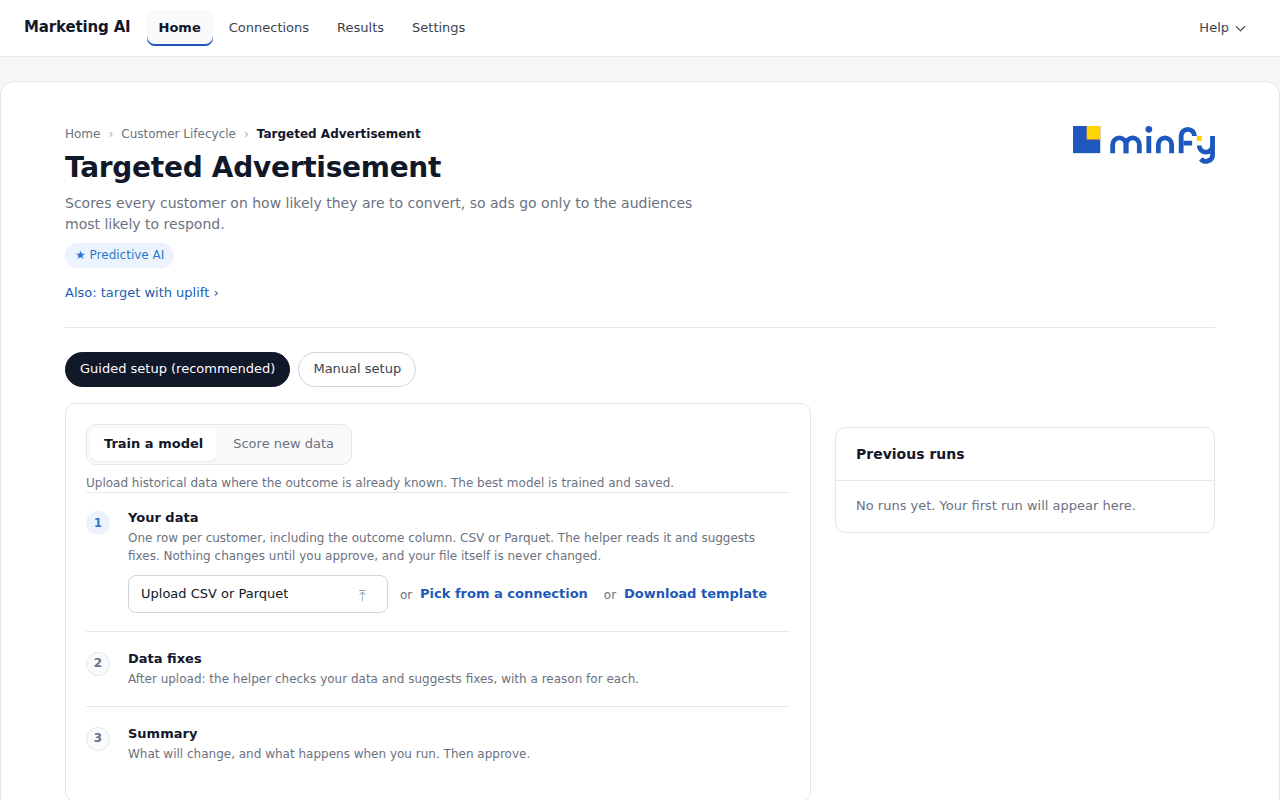
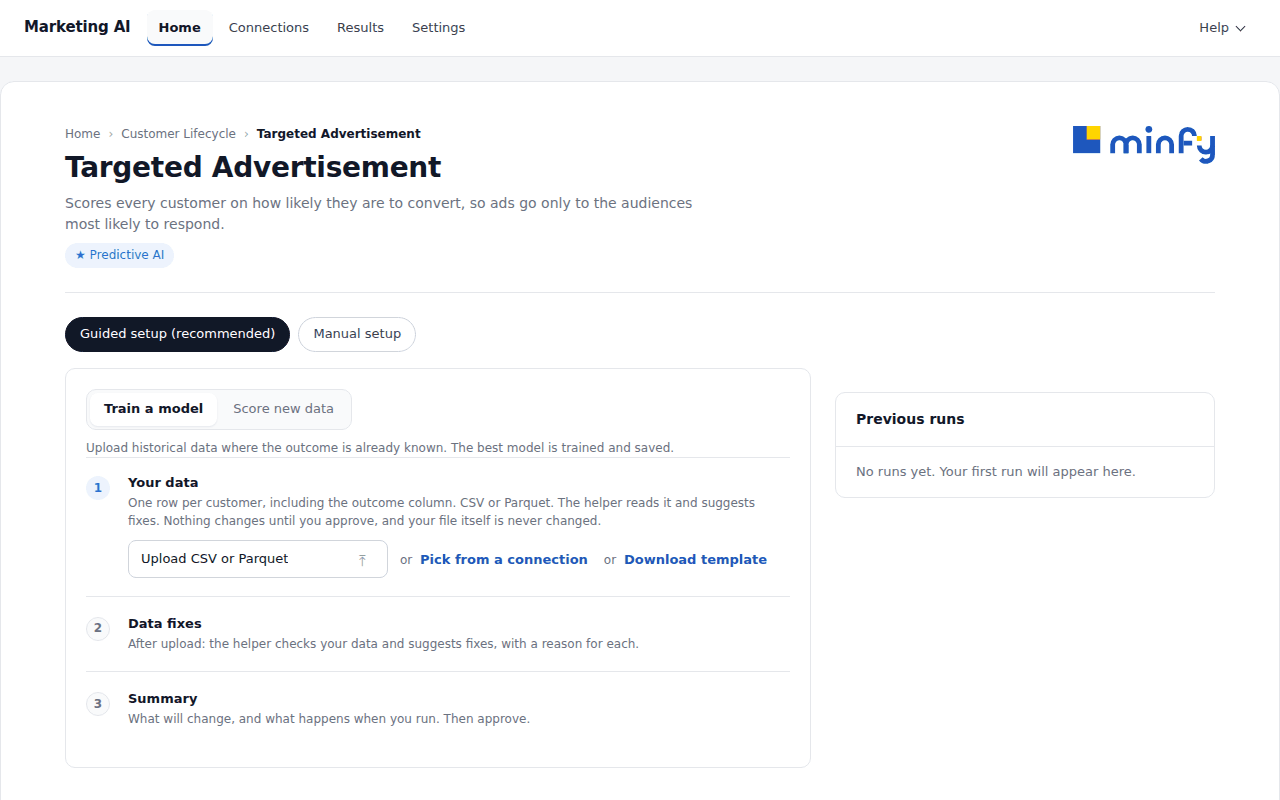
Use-case page rough edges (UI_AUDIT §8.4 items 5-8): no uplift link, no stray step 4
- 8: remove "Also: target with uplift ›" from every use case. ui/modules/uplift/index.js no longer
  registers the `uplift-related` run action; the workbench stays at #/uplift and under
  Settings → Advanced (Plan H: uplift is step 4, "Measure the campaign"). The prototype drops
  upRelated() to match; the wiring, prototype and measure tests now assert the link is absent.
  README, QUICKSTART, UPLIFT.md and UI_AUDIT no longer point at it.
- 5: the Measure block reads "Measure" ("Go to the step") and the panel "Measure the campaign":
  no bare "4" after Guided setup's own 1-3 and the unnumbered Data / Model / Output blocks.
- 6: the Measure block's state sits under its label; the DATA block's file name is one line with
  an ellipsis and the full name in its title (ui/usecase.js `.val.fname`).
- 7: the Measure panel's heading drops .card h3's band padding, so heading and body share the
  card's 24px left edge.
- measure.test.mjs checks 5-8, with computed styles against index.html's own rules.
- Re-captured start_here 05, 08 and 09.

Claude-Session: https://claude.ai/code/session_01WWdteqPywdHb2d3o19Pxp2

Changed region(s): [[0.0312, 0.3438, 0.5938, 0.9688], [0.6562, 0.5625, 0.875, 0.6562], [0.6562, 0.5, 0.75, 0.5312]]

diff --git a/ui/modules/uplift/index.js b/ui/modules/uplift/index.js
@@ -1,14 +1,13 @@
 // Phase 3b's entry point: the uplift screens (plan B §8), registered with `ui/modules/router.js`.
 //
 // HOW A USER REACHES THE UPLIFT SCREENS
-//   * From the top bar: Models › "Uplift models" (`ui/chrome.js`) opens `#/uplift`.
-//   * From a use case's Setup (`#/uc/<id>`): the quiet related link "Also: target with uplift ›" in
-//     its header, which this module offers through the router's run-action seam as the action for
-//     "no run" (`runActionsHtml(uc, null)`), and only for a use case that can have one (not an
-//     AI-written-text use case; planned, notice and error screens never draw a use case).
-//   * From a finished scoring run (`#/uc/<id>/run/<run>`): the "Campaign results" flow block, the
-//     same seam's action for a scoring run (`runActionsHtml(uc, run)`), because any scoring run with a
-//     control group can be measured - not only uplift ones.
+//   * From Settings → Advanced: "Uplift workbench" (`ui/modules/simple/pages.js`) opens `#/uplift`.
+//   * Not from a use case's header: Plan H makes uplift step 4 of a use case, "Measure the campaign"
+//     (`ui/modules/measure/`, whose "Learn who to contact next time" trains an uplift model and links
+//     to its contact list), so a use case offers no link to this workbench (UI_AUDIT §8.4 item 8).
+//   * From a finished scoring run (`#/uc/<id>/run/<run>`) of a use case object without its config:
+//     the "Campaign results" flow block, the router's run-action seam (`runActionsHtml(uc, run)`),
+//     because any scoring run with a control group can be measured - not only uplift ones.
 //   * From Campaigns (`#/monitoring/runs`) and the value view (`#/pilot/value/<run>`), which link here.
 //   * Directly, by URL:
 //       #/uplift                          every use case, one row each, with its uplift status
@@ -49,7 +48,6 @@ import {
   routes,
   upliftIndexHtml,
   upliftScreenHtml,
-  upliftUnavailable,
 } from "./views.js";
 
 injectUpliftStyles();
@@ -249,17 +247,7 @@ async function render(app, parts) {
 
 registerModule({ name: "uplift", routes: ROUTES, render });
 
-// --- what other screens offer: the related link and the Campaign results block -----------------
-
-/**
- * On a use case's own header (no run): "Also: target with uplift ›", as `headActions`' quiet related
- * link. Never for a use case uplift cannot serve (AI-written text, planned).
- */
-registerRunAction({
-  name: "uplift-related",
-  applies: (uc, run) => !run && !!uc && !!uc.id && !upliftUnavailable(uc),
-  html: (uc) => `<a class="related" href="${esc(routes.setup(uc.id))}">Also: target with uplift ›</a>`,
-});
+// --- what other screens offer: the Campaign results block ----------------------------------------
 
 /**
  * On a finished scoring run's Results: the fourth flow block, "Campaign results". It never says

diff --git a/ui/usecase.js b/ui/usecase.js
@@ -1054,9 +1054,15 @@ function flowBlocks(uc, s, run) {
       state = '<span class="bstate waiting">Not completed</span>';
       extra = " pending";
     }
+    // A file name is one long word: it is cut with an ellipsis on one line, whole in its tooltip,
+    // instead of breaking mid-word ("synthetic_score.cs / v", UI_AUDIT §8.4 item 6).
+    const val =
+      slug === "data"
+        ? `<div class="val fname" title="${esc(value)}">${esc(value)}</div>`
+        : `<div class="val">${esc(value)}</div>`;
     return `<a class="block${extra}" href="#/uc/${esc(uc.id)}/${slug}/${esc(run.run_id)}"><div><div class="lab"><span>${esc(
       label,
-    )}</span>${state}</div><div class="val">${esc(value)}</div>${
+    )}</span>${state}</div>${val}${
       meta ? `<div class="meta">${esc(meta)}</div>` : ""
     }</div><div class="go"><span>View details</span><span aria-hidden="true">›</span></div></a>`;
   });
@@ -1177,7 +1183,7 @@ function resultsHtml(uc, s) {
     ["Error code", run.error && run.error.code],
   ]);
   const flow = flowBlocks(uc, s, run);
-  // A step that needs a full-width section under the flow (Plan H M83: "4 Measure the campaign").
+  // A step that needs a full-width section under the flow (Plan H M83: step 4, "Measure the campaign").
   const panels = run.mode === "score" && run.state === "done" ? runPanelsHtml(uc, run) : "";
   return `<div class="results"><section class="summary rsum"><div class="vline">${told.head}</div>${told.lines.join(
     "",
@@ -1195,7 +1201,8 @@ export function useCaseHtml(uc, s) {
   const body =
     s.view === "running" ? runningHtml(uc, s) : s.view === "results" ? resultsHtml(uc, s) : setupHtml(uc, s);
   // A related link the phase modules offer for the use case itself (`registerRunAction`, asked with
-  // no run): uplift's "target with uplift", for one. Drawn quietly, after the description.
+  // no run), drawn quietly after the description. None offers one today: Plan H made uplift step 4
+  // ("Measure the campaign") and put its workbench under Settings → Advanced (UI_AUDIT §8.4 item 8).
   const related = runActionsHtml(uc, null);
   return `<main class="screen t-${esc(uc.marker)}">
     ${pageHead(
@@ -1275,6 +1282,7 @@ details.more-runs>summary{padding:12px 20px;border-top:1px solid var(--line);fon
 .rsum .vsub.muted{font-size:13px;color:var(--muted)}
 .rsum .btn-row{margin-top:8px}
 .flow.four{grid-template-columns:1fr 40px 1fr 40px 1fr 40px 1fr}
+.block .val.fname{white-space:nowrap;overflow:hidden;text-overflow:ellipsis}
 .block.next-step{background:var(--soft)}
 .flow-actions{margin-top:16px}
 .block .next-actions{flex-wrap:wrap;gap:8px 16px;justify-content:flex-start}

diff --git a/marketing-ai-prototype.html b/marketing-ai-prototype.html
@@ -2455,10 +2455,9 @@ function resultsHtml(u){const s=st(u),r=s.current,cfg=SETUP[u.id],v=runVerdict(u
     ${cfg.gen?assistantResults(u):""}
     <div class="runs-below">${runsCard(u)}</div></div>`;
 }
-/* DEC-608's entry point, since v1 a quiet related link in the use case's own header actions (the audit's
-   "Also: target with uplift ›"), never an injected pill. Only a use case with uplift sample content has
-   one (upliftOffered: never on a generative, notice, planned or error screen). */
-const upRelated=u=>upliftOffered(baseUC(u))?{label:"Also: target with uplift",href:pageHref(upView(baseUC(u))),attrs:`title="Uplift ${esc(UPLIFT_EXPLANATION)}"`}:null;
+/* DEC-608's entry point is no longer on the use case: Plan H made uplift step 4 of a use case ("Measure the
+   campaign") and put the workbench under Settings → Advanced, so ui/modules/uplift offers no "Also: target
+   with uplift" link in a use case's header (docs/UI_AUDIT.md §8.4 item 8). The uplift screens stay at #/uplift. */
 const upChip=()=>`<span class="chip type">Uplift</span>`;
 /* The breadcrumb above a use-case screen: Home › journey › use case (› Uplift) › the page. */
 function ucCrumbs(u,page){const b=baseUC(u),items=[JOURNEY];
@@ -2474,7 +2473,7 @@ function detail(u){const s=st(u);
     ${body}
   </main>`;
   return `<main class="screen t-${u.k}">
-    ${pageHead(`${ucCrumbs(u)}<h1 class="h1">${esc(u.name)}</h1><p class="desc">${esc(u.desc)}</p><div class="chips">${typeChip(u.k)}</div>${headActions({related:upRelated(u)})}`)}
+    ${pageHead(`${ucCrumbs(u)}<h1 class="h1">${esc(u.name)}</h1><p class="desc">${esc(u.desc)}</p><div class="chips">${typeChip(u.k)}</div>`)}
     ${body}
   </main>`;
 }
@@ -2720,7 +2719,7 @@ function mock(u, kind){
   }
   const next = nextKind&&kind!=="campaign" ? {label:`Next: ${NAMES[nextKind]} ›`,href:pageHref(u,nextKind)} : null;
   return `<main class="screen t-${u.k}"${u.up?' data-module="uplift"':""}>
-    ${pageHead(`${ucCrumbs(u,K)}<h1 class="h1">${esc(title)}</h1><div class="chips">${u.up?upChip():typeChip(u.k)}</div>${headActions({secondary:next?[next]:[],related:u.up?null:upRelated(u)})}`)}
+    ${pageHead(`${ucCrumbs(u,K)}<h1 class="h1">${esc(title)}</h1><div class="chips">${u.up?upChip():typeChip(u.k)}</div>${headActions({secondary:next?[next]:[]})}`)}
     <div class="tabs-bar"><nav class="tabs" aria-label="Pipeline">${tabs}</nav><span class="note">Illustrative sample, AWS reference stack</span></div>
     <div class="stack">${body}
     ${run&&kind!=="campaign"?techDetails([["Run id",run.id],["Dataset file",run.file],["Recorded",run.at]],"Details: this run"):""}</div>

diff --git a/ui/modules/measure/index.js b/ui/modules/measure/index.js
@@ -1,8 +1,10 @@
 // Step 4 of a use case, "Measure the campaign" (Plan H M83), on a finished scoring run's Results.
 //
 // WHAT THE PERSON SEES
-//   * In the Results flow, a fourth block "4 Measure" (the router's run-action seam) that jumps to
-//     the step below the flow.
+//   * In the Results flow, a fourth block "Measure" (the router's run-action seam) that jumps to
+//     the step below the flow; its state ("After the campaign", "Measured") sits under the label.
+//     Neither the block nor the panel carries a number: the page's other steps (Guided setup's 1-3,
+//     the unnumbered Data / Model / Output blocks) would not add up to it (UI_AUDIT §8.4 item 5).
 //   * Below the flow, the step itself (the router's run-panel seam): one sentence, one upload button;
 //     after the upload, one big plain result ("The campaign added about 180 conversions", "No clear
 //     effect yet", "Outcome window not over yet"), the contacted and held-back response rates, the
@@ -127,9 +129,9 @@ function blockHtml(uc, run) {
     : '<span class="bstate waiting">After the campaign</span>';
   return `<a class="block" href="${esc(routes.run(uc, run))}" data-measure-jump="${esc(
     run.run_id,
-  )}" data-action="measure"><div><div class="lab"><span>4 Measure</span>${state}</div><div class="val">Did contacting them change anything?</div><div class="meta">${
+  )}" data-action="measure"><div><div class="lab measure-lab"><span>Measure</span>${state}</div><div class="val">Did contacting them change anything?</div><div class="meta">${
     measured ? "See the result below" : "Upload who responded, below"
-  }</div></div><div class="go"><span>Go to step 4</span><span aria-hidden="true">↓</span></div></a>`;
+  }</div></div><div class="go"><span>Go to the step</span><span aria-hidden="true">↓</span></div></a>`;
 }
 
 function uploadButton(st, label, kind) {
@@ -259,7 +261,7 @@ function panelHtml(st) {
   if (!st.view && st.loading) body = `<p class="muted" role="status">Loading…</p>`;
   else if (!st.view) body = errorBox(st.error, { title: "This step could not be loaded." });
   else body = st.view.report ? resultHtml(st) : askHtml(st);
-  return `${open}><h3 id="measure-h">4 · Measure the campaign</h3>${body}</section>`;
+  return `${open}><h3 id="measure-h">Measure the campaign</h3>${body}</section>`;
 }
 
 // --- events (delegated once) -----------------------------------------------------------------------

diff --git a/ui/modules/measure/styles.js b/ui/modules/measure/styles.js
@@ -4,7 +4,11 @@
 
 const CSS = `
 .card.measure{margin-top:24px;padding:24px}
-.card.measure h3{margin:0 0 8px}
+/* One left edge for the heading and the body: the card pads both, so the heading drops .card h3's own
+   band padding (16px 20px, for cards with none) and keeps only its rule underneath (UI_AUDIT §8.4 item 7). */
+.card.measure h3{margin:0 0 12px;padding:0 0 12px}
+/* The flow block's state goes under its label, not beside it, so neither wraps at 1280px (item 6). */
+.block .lab.measure-lab{flex-direction:column;align-items:flex-start;justify-content:flex-start;gap:4px}
 .measure-lead{margin:0;font-size:15px;line-height:1.5;color:var(--ink);max-width:760px}
 .measure-hint{margin:4px 0 0;font-size:13px}
 .measure .btn-row{margin-top:16px}

diff --git a/ui/modules/router.js b/ui/modules/router.js
@@ -204,7 +204,7 @@ export function setupModes(uc) {
 }
 
 // Plan H M83: a *run panel* - a full-width section under a run's Results flow, for a step that needs
-// more room than a flow block ("4 Measure the campaign": an upload and its result). `ui/usecase.js`
+// more room than a flow block ("Measure the campaign": an upload and its result). `ui/usecase.js`
 // draws `runPanelsHtml(uc, run)` below the flow blocks; the module owns the panel's markup, its
 // events (delegated, so a repaint of the screen needs no re-binding) and its own in-place redraws.
 const runPanelList = [];

diff --git a/scripts/capture_start_here.py b/scripts/capture_start_here.py
@@ -9,7 +9,7 @@ deleted afterwards), drives it the way a new user would, and writes 1280x800 PNG
 2. A use case's Guided setup, with a real helper session: a synthetic, deliberately messy file for
    Targeted Advertisement is uploaded through the page's own file input.
 3. Unless `--no-train`: one fast training run and one scoring run through the API (a minute or two),
-   then Results, the scoring run's results and its "4 Measure the campaign" step.
+   then Results, the scoring run's results and its "Measure the campaign" step.
 4. Settings, with Advanced tools opened.
 
 Every row is synthetic (`tests/fixtures/make_data.py`): no real person, no secret, no personal data.

diff --git a/docs/UI_AUDIT.md b/docs/UI_AUDIT.md
@@ -81,7 +81,7 @@ The Models menu also offers "Train or score a model: choose a use case on Home" 
 
 ### What leaves the page body
 
-- The injected "Uplift modelling ›" / "Uplift for this use case ›" pill becomes a quiet related link in the use case's own header actions ("Also: target with uplift ›"). It is never offered on generative, notice, planned or error screens (the prototype's `upliftOffered()` rule).
+- The injected "Uplift modelling ›" / "Uplift for this use case ›" pill becomes a quiet related link in the use case's own header actions ("Also: target with uplift ›"). It is never offered on generative, notice, planned or error screens (the prototype's `upliftOffered()` rule). *Superseded by Plan H (§8.4 item 8):* the link is removed; uplift is a use case's step 4, "Measure the campaign", and the workbench is under Settings → Advanced.
 - "Campaign results for this run" becomes the fourth flow block on a scoring run's results.
 - Every "‹ Customer Lifecycle" back link becomes the breadcrumb "Home › <journey> › <screen>".
 
@@ -509,7 +509,7 @@ Screenshot names are `docs/ui/before/<id>--<state>--<viewport>.png`. "Change" li
   - "HTTP_500 The API answered 500."
   - A Viewer sees two reasons side by side ("Only an Analyst can start a run. Upload a dataset to continue").
 - **Change.**
-  - The header follows the one pattern: the chooser moves to the top bar, the uplift link becomes a quiet related link, and there is one context chip.
+  - The header follows the one pattern: the chooser moves to the top bar, the uplift link becomes a quiet related link (removed under Plan H, §8.4 item 8), and there is one context chip.
   - Before a file is chosen, show only Step 1. Steps 2 and 3 become one-line placeholders ("2 Columns: after upload").
   - Drop the duplicate hint and the "Selected" tag.
   - Plain labels, in `configs/engine.yaml` `ui:` copy only: "Customer ID column", "What to predict (outcome column)", "Best model, picked automatically (recommended)". Keep "Run training", "Score data" and "Score new data".
@@ -1330,7 +1330,7 @@ Plan H (`docs/plans/MARKETING_AI_PLAN_H_SIMPLE.md`) keeps the engine and hides t
 |---|---|---|
 | **Home** | `#/` | The generic journey ("Customer Lifecycle") with five goals left to right: Win customers, Keep them paying, Stop them leaving, Win them back, Run smoothly. Eleven use-case cards. No industry picker (`SHOW_INDUSTRY_CHOOSER = false`), no client picker (`SINGLE_COMPANY`), no demo numbers. Empty start: "No models yet. Choose a use case below and upload your data to train the first one." Later a "For you" line ("1 model waiting for your approval"). `01_home.png`. |
 | **A use case** | `#/uc/<id>` | Opens on **Guided setup (recommended)**, Manual setup one click away (DEC-1114). Train a model / Score new data. Step 1 "Your data": upload, **Pick from a connection**, Download template. Then Data fixes and Summary, Approve, and the Setup form's own Run button. `05_guided_setup_start.png`, `06_guided_setup_suggestions.png`. |
-| **A run** | `#/uc/<id>/run/<run>` | The verdict, the Data / Model / Output blocks and, for a finished scoring run of a use case that contacts customers, a fourth block **4 Measure** and the panel **4 · Measure the campaign** (M83); then the links Model health, Schedule and the report (M82, `registerResultLink`). `08_run_results.png`, `09_measure_campaign.png`. |
+| **A run** | `#/uc/<id>/run/<run>` | The verdict, the Data / Model / Output blocks and, for a finished scoring run of a use case that contacts customers, a fourth block **Measure** and the panel **Measure the campaign** (M83; unnumbered since §8.4 item 5); then the links Model health, Schedule and the report (M82, `registerResultLink`). `08_run_results.png`, `09_measure_campaign.png`. |
 | **Connections** | `#/connections`, `#/connections/new/<kind>`, `#/connections/<id>` | Your connections (empty state), the AI service card ("Open and test"), and "Add a connection": Amazon S3, S3-compatible, PostgreSQL, Amazon Redshift, MySQL / MariaDB, and Snowflake, BigQuery and Azure Blob marked **Needs the add-on** until installed. The form's one button is Save and test; the test shows five named steps. `02_connections_empty.png`, `03_connections_add.png`, `04_connection_form.png`. |
 | **Results** | `#/results` | Every run, newest first (use case, what the run did, status, outcome, started). A notice with **Review** when models wait for approval, and the count as a badge on "Results". "All reports ›" links to the Reports hub. `07_results.png`. |
 | **Settings** | `#/settings` | Services and data (AI service → Connections, Privacy, Schedules), Admin (only while sign-in is on), **Advanced tools** folded (Uplift workbench, Data request kit, Build from raw tables, Model health, Document assistant), About (version, "Sign-in is off"). `10_settings.png`. |
@@ -1363,7 +1363,7 @@ Each keeps its route, and the top bar still marks a place for it (`navFor` in `u
 | `#/generative/connection` | `modules/generative` | Connections (Settings before M84) | Connections → AI service |
 | `#/generative/rca/<uc>/<run>`, `#/generative/copy/<uc>/<run>` | `modules/generative` | Home / Results | a run's actions |
 | `#/campaign/<uc>/<run>` | `modules/uplift` | Results | step 4's Details |
-| `#/uplift`, `#/uplift/<uc>/...` | `modules/uplift` | Settings | Settings → Advanced; "Also: target with uplift ›" on a use case |
+| `#/uplift`, `#/uplift/<uc>/...` | `modules/uplift` | Settings | Settings → Advanced (no link on a use case since §8.4 item 8) |
 | `#/pilot`, `#/pilot/view/results/<uc>`, `#/pilot/value/<run>` | `modules/pilot` | Results | Results ("All reports"), a run's report link |
 | `#/pilot/kit`, `#/pilot/view/readiness/<id>` | `modules/pilot` | Settings | Settings → Advanced → Data request kit |
 | `#/approvals` | `modules/production` | Results | the Results notice, Home's "For you" |
@@ -1383,10 +1383,10 @@ Not fixed, listed for the owners:
 2. **A run opened from Results marks Home** (`navFor`: every `#/uc/...` is Home). The person clicks a row on Results and the bar jumps to Home (`08_run_results.png`). *Fix:* keep Results marked when the run was opened from Results (`setActiveNav("results")` on arrival).
 3. **The breadcrumb repeats Home.** A use case reads "Home › Customer Lifecycle › Targeted Advertisement"; both first crumbs open the same page (`05_guided_setup_start.png`). *Fix:* drop the journey crumb while there is one journey.
 4. **Results rows do not look clickable** (`modules/simple/pages.js` `resultsHtml`). The use-case name is the only link, and it is drawn in body-text colour. *Fix:* link colour on `.sp-runs a`, or a trailing "Open ›".
-5. **Step numbers do not add up** (the use-case page). The Plan H flow is 1 Choose data, 2 Guided setup, 3 Run & results, 4 Measure; the screen shows Guided setup's own 1 Your data, 2 Data fixes, 3 Summary, then run blocks DATA / MODEL / OUTPUT without numbers, then "4 MEASURE" and "4 · Measure the campaign". *Fix:* drop the "4" from the block and the panel ("Measure the campaign"), or number the run blocks as one sequence.
-6. **The "4 MEASURE" block label wraps** beside "After the campaign" at 1280 px (`modules/measure/index.js` `blockHtml`), and the file name in the DATA block breaks mid-word ("synthetic_score.cs / v", `08_run_results.png`). *Fix:* put the state under the label; ellipsis on a long file name.
-7. **The Measure panel's heading is indented further than its text** (`modules/measure/styles.js`, `09_measure_campaign.png`). *Fix:* one left padding for the heading and the body.
-8. **"Also: target with uplift ›" on every use case** (`modules/uplift/index.js`, the related link on the use-case header). Plan H moved the Uplift workbench under Settings → Advanced and made uplift step 4, yet the first link a new user sees on a use case opens the workbench. *Fix:* hide it, or show it only on a finished scoring run next to step 4.
+5. **Step numbers did not add up** (the use-case page). *Fixed:* the Measure block reads "Measure" (its link "Go to the step") and the panel "Measure the campaign", so no stray "4" follows Guided setup's own 1-3 and the unnumbered Data / Model / Output blocks (`modules/measure/index.js`; `tests/integration/production/ui/measure/measure.test.mjs`, run by `tests/integration/test_measure_ui.py`).
+6. **The Measure block label wrapped, and the DATA block's file name broke mid-word.** *Fixed:* the block's state ("After the campaign", "Measured") sits under its label (`.lab.measure-lab`, `modules/measure/styles.js`); the DATA block's file name stays on one line with an ellipsis and the whole name in its `title` (`ui/usecase.js` `flowBlocks`, `.val.fname`). Covered by `measure.test.mjs` (computed styles against `index.html`'s rules) and `08_run_results.png`.
+7. **The Measure panel's heading was indented further than its text.** *Fixed:* the heading drops `.card h3`'s band padding, so the card's 24 px is the one left edge for heading and body (`modules/measure/styles.js`; `measure.test.mjs`, `09_measure_campaign.png`).
+8. **"Also: target with uplift ›" on every use case.** *Fixed (removed, as the product owner asked):* `modules/uplift/index.js` no longer registers the `uplift-related` run action, so no use case's header links to the workbench; uplift is step 4, "Measure the campaign", and the workbench stays at `#/uplift` and under Settings → Advanced. The prototype drops its `upRelated()` to match. Covered by `tests/unit/uplift/uplift_ui_wiring.test.mjs`, `measure.test.mjs`, `tests/prototype/uplift.test.mjs` and `consistency.test.mjs`; `settings.test.mjs` keeps the Settings entry.
 9. **Connections puts "Add a connection" below the fold** (`modules/connections/page.js` `listHtml`). On an empty install at 1280 x 800 the person sees "No connections yet", then the AI service card; the services to add start at the bottom edge (`02_connections_empty.png`), although the empty state says "Pick a service below". *Fix:* draw "Add a connection" before the AI service section.
 10. **Manual setup cannot pick from a connection** (DEC-1109, `ui/usecase.js`). Guided setup offers "Pick from a connection"; Manual setup only an upload and Build from raw tables. *Fix:* a setup-source seam for Manual Step 1, as the decision notes.
 11. **Settings → "Build from raw tables" links to Home** (`modules/simple/pages.js`, `href: "#/"`): a link that does not open what it names. *Fix:* make the entry plain text, or link to a use case's Manual setup.

diff --git a/README.md b/README.md
@@ -37,9 +37,10 @@ nightly (`make test-all`, which adds the `@slow` AutoGluon and browser journeys)
   YAML file under `configs/industries/`, chosen on the overview (Plan A M38).
 - **Generative features** on the fake LLM by default and on Bedrock when configured: the onboarding
   assistant, root-cause summaries per risk segment and win-back copy with a judge (Phase 3a).
-- **Uplift modelling.** From *Uplift modelling ›* on the overview: train S-, T- or X-learners on a
-  past randomised campaign, read the Qini curve and AUUC, get a budgeted treat list that leaves the
-  sleeping dogs alone, and measure a campaign's incremental conversions once its outcomes mature
+- **Uplift modelling.** Step 4 of a use case, *Measure the campaign*, learns who to contact next
+  time; by hand, from *Settings → Advanced → Uplift workbench* (`#/uplift`): train S-, T- or
+  X-learners on a past randomised campaign, read the Qini curve and AUUC, get a budgeted treat list
+  that leaves the sleeping dogs alone, and measure a campaign's incremental conversions once its outcomes mature
   (Phase 3b; `tests/integration/uplift/`). Since M53 an uplift file may hold each customer at
   several snapshot dates, keyed by customer + snapshot date: treatment must be the same for a
   customer across a campaign's snapshots (`TREATMENT_VARIES_WITHIN_ENTITY`), the hold-out keeps each

diff --git a/docs/QUICKSTART.md b/docs/QUICKSTART.md
@@ -126,8 +126,8 @@ These ten steps show the whole product in about fifteen minutes.
 7. **Build a dataset from raw tables.** Under **Build data**, see what a client is asked to send,
    and open the **data readiness report**. The demo also holds a broken extract with one planted
    problem (duplicate customer IDs); its readiness report shows how a problem is explained.
-8. **Uplift: who to contact, and who to leave alone.** Open **Win-back Campaign → Also: target
-   with uplift ›** (or **Models → Uplift models**). It sorts customers into persuadables, sure
+8. **Uplift: who to contact, and who to leave alone.** Open **Settings → Advanced → Uplift
+   workbench** and pick **Win-back Campaign**. It sorts customers into persuadables, sure
    things, lost causes and sleeping dogs, and recommends contacting only the persuadables.
 9. **Approvals.** Under **Models**, open **Waiting for approval**. A new model only replaces the
    current one after an Approver agrees; with `make demo-signin`, sign in as `demo-lead`, train a

diff --git a/docs/START_HERE.md b/docs/START_HERE.md
@@ -86,7 +86,7 @@ A newly trained model waits for approval before it is the one in use. Results sh
 
 Only for use cases that contact customers (ads, cross-sell, payment reminders, retention, win-back). Operational use cases, *Order Fulfillment* and *Fault Prediction*, do not have this step.
 
-When you score customers for a campaign, a small group (10% by default) is held back and not contacted. After the campaign, open the scoring run and go to **4 · Measure the campaign**:
+When you score customers for a campaign, a small group (10% by default) is held back and not contacted. After the campaign, open the scoring run and go to **Measure the campaign**, the last step on its page:
 
 1. Click **Upload outcomes**: a CSV with the customer id and one column, 1 if they responded and 0 if not.
 2. You get one plain answer, such as "The campaign added about 180 conversions", "No clear effect yet" or "Outcome window not over yet", with the response rates of the contacted and held-back customers.

diff --git a/docs/UPLIFT.md b/docs/UPLIFT.md
@@ -497,9 +497,10 @@ Phase 1's champion rule in `engine/registry.py` is not changed.
 
 ### In the UI
 
-1. From the Overview, follow **Uplift modelling ›** (or **Uplift for this use case ›** on any
-   use-case screen). Both links are added by the uplift module. The screens live at `#/uplift` and
-   `#/uplift/<use case>`.
+1. Open **Settings → Advanced → Uplift workbench**. The screens live at `#/uplift` and
+   `#/uplift/<use case>`. A use case's own screen does not link here: under Plan H uplift is step 4
+   of a use case, **Measure the campaign**, whose "Learn who to contact next time" trains an uplift
+   model and links to its contact list (docs/UI_AUDIT.md §8.4 item 8).
 2. **Train uplift model**: upload the campaign file, pick the primary key, the **treatment column**
    (from the detected 0/1 columns) and the **outcome column**, and run. If a check blocks, the
    reasons appear in place. `TREATMENT_NOT_RANDOM` offers an acknowledge button.
